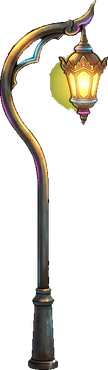
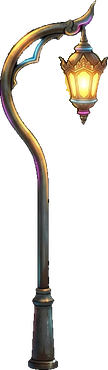
Light and shade on the street: cast shadows, ambient light, road apron
Things on the street cast their own silhouette away from the light from
their base (Shade), with a small contact shadow; fighters' casts follow
their frames, and fighters take the area's light in their shader. The
road runs past the bottom of the view; the importer clears the painted
halo beside the street lamp's lantern.

Claude-Session: https://claude.ai/code/session_01SAeyubS5VQx2zeKpEWbVex

Changed region(s): [[0.4444, 0.1486, 0.7222, 0.327], [0.9167, 0.1486, 0.9444, 0.1784], [0.6667, 0.1189, 0.6944, 0.1486]]

diff --git a/tools/assets/kit_import.py b/tools/assets/kit_import.py
@@ -16,7 +16,8 @@ layer it belongs to. For every piece this script
     says "keep_green";
   * drops stray blobs (specks; with "haze", the warm glow some backdrops
     have in a corner, which pieces lit warm all over must not use);
-  * removes the green fringe at the edge, trims, and scales the piece to HD:
+  * removes the green fringe at the edge, trims, and scales the piece to HD
+    (with "dehalo", it also clears the glow a light painted on the backdrop):
     `hd` texture pixels per game pixel, drawn scaled down so it stays sharp
     at any window size;
 
@@ -221,6 +222,29 @@ def tile(source: Image.Image, piece: dict, hd: int) -> Image.Image:
     return seamless
 
 
+def dehalo(image: Image.Image) -> Image.Image:
+    """Clears the painted glow a light leaves on the green backdrop (yellow-green
+    once keyed), wherever it reaches the outside: the lamp's own glass, inside
+    its dark outline, stays. The game draws the light's glow itself."""
+    px = image.load()
+    w, h = image.size
+
+    def halo(p: tuple) -> bool:
+        r, g, b, a = p
+        return a > 0 and g >= 0.88 * r and g > 90 and b < 0.62 * g
+
+    queue = deque((x, y) for y in range(h) for x in range(w) if px[x, y][3] == 0)
+    seen = set(queue)
+    while queue:
+        x, y = queue.popleft()
+        for nx, ny in ((x + 1, y), (x - 1, y), (x, y + 1), (x, y - 1)):
+            if 0 <= nx < w and 0 <= ny < h and (nx, ny) not in seen and halo(px[nx, ny]):
+                seen.add((nx, ny))
+                px[nx, ny] = (0, 0, 0, 0)
+                queue.append((nx, ny))
+    return image
+
+
 def make_piece(piece_id: str, piece: dict, hd: int) -> Image.Image:
     with Image.open(KIT / "src" / piece["file"]) as opened:
         source = opened.copy()
@@ -228,6 +252,8 @@ def make_piece(piece_id: str, piece: dict, hd: int) -> Image.Image:
         return tile(source, piece, hd)
     cut = cut_out(source, piece)
     image = hd_resize(cut, piece["height"] * hd)
+    if piece.get("dehalo", False):
+        image = dehalo(image)
     if piece.get("mirror", False):
         mirrored = Image.new("RGBA", (image.width * 2, image.height))
         mirrored.paste(image, (0, 0))

diff --git a/CHANGELOG.md b/CHANGELOG.md
@@ -4,6 +4,36 @@ Format: [Keep a Changelog](https://keepachangelog.com/en/1.1.0/); versions follo
 
 ## [Unreleased]
 
+### Changed: light and shadow on the street
+- **No gap at the bottom of the screen** (`Scenery._apron`):
+  - The road picture ended 6 game pixels short of the 360-pixel view, so a dark strip
+    showed at the bottom (more in wide windows and under screen shake).
+  - The road now runs 30 px further: its own bottom rows, mirrored, so it meets
+    without a seam.
+- **Shadows cast from the light, from each thing's own base** (`Shade`):
+  - Fighters, NPCs, street furniture (trucks, crates, drums, lamps) and the props on
+    the sidewalk cast their own silhouette onto the street. It is laid down from
+    their base line, squashed by the low angle and slanted away from the light (the
+    moon and lamps above, behind and a little to the left), so nothing looks like it
+    floats.
+  - A small, soft contact shadow darkens where each meets the ground.
+  - A fighter's cast shadow follows its animation frame by frame.
+- **Characters in the street's light** (`flash.gdshader`, `ZoneView.ambient_light`):
+  - Heroes, monsters and NPCs take half the colour of the area's light (the street
+    kit's tint).
+  - They are a little darker toward the feet and a touch brighter at the head.
+  - The hit flash is unchanged.
+- **The street lamp's yellow disc is gone** (`kit_import.py` `"dehalo"`):
+  - The painting's glow on the green backdrop had stayed behind as a flat yellow-green
+    disc beside the lantern.
+  - The importer now clears glow that reaches the outside, keeping the lantern's own
+    glass. The game's own glow is drawn at 70%.
+- **Tests:**
+  - The road reaches past the view.
+  - Props, furniture and lamps cast shadows from their base, slanted.
+  - Fighters cast a shadow over their contact shadow and take the area's light.
+  - The lamp carries no halo. 546 in all.
+
 ### Changed: the street goes on behind every screen; camps that amble and vary
 - **The street never stops** (`Game._physics_process`):
   - With the bag, the map, skills, quests, a shop, a taxi or the game menu open, the

diff --git a/README.md b/README.md
@@ -61,7 +61,7 @@ GitHub → **Actions** → **CI**. Each run has these jobs:
 |---|---|
 | Repository policy | Required docs exist; `.env.example` has placeholders only; no key files tracked |
 | GDScript lint and format | `gdlint` and `gdformat --check` (gdtoolkit 4.5.0) |
-| Godot project opens and tests pass | Headless import with no script errors; 542 unit/scene tests (combat, skills, heroes, AI, encounters, loot, quests, shop, saves, the city hub, game scenes, interface, effects, the UI audit's detectors); the UI audit of every screen at four landscape window sizes against `client/tests/ui/baseline.json` (report: **ui-audit** artifact; see `docs/UI_TESTING.md`) |
+| Godot project opens and tests pass | Headless import with no script errors; 546 unit/scene tests (combat, skills, heroes, AI, encounters, loot, quests, shop, saves, the city hub, game scenes, interface, effects, the UI audit's detectors); the UI audit of every screen at four landscape window sizes against `client/tests/ui/baseline.json` (report: **ui-audit** artifact; see `docs/UI_TESTING.md`) |
 | Web export and browser smoke test | Release web export; headless Chromium loads it, waits for boot, **plays it with real keys: title → new game → hero creation (pick a hero, type a name) → combo on the dummy → a skill from the hotbar → pick up a weapon → pause → next area → a real fight**; uploads the build, a manifest with SHA-256s and a screenshot UI screenshots at four landscape window sizes with input checks (**ui-shots** artifact). |
 | Backend typecheck, tests and migrations | `tsc`, API + migration tests against a real PostgreSQL, fresh-DB migration, API reaches `/readyz` |
 | Backend image build, container scan and SBOM | Docker image builds, runs as non-root on the pinned Node, Trivy scan, CycloneDX SBOM |
